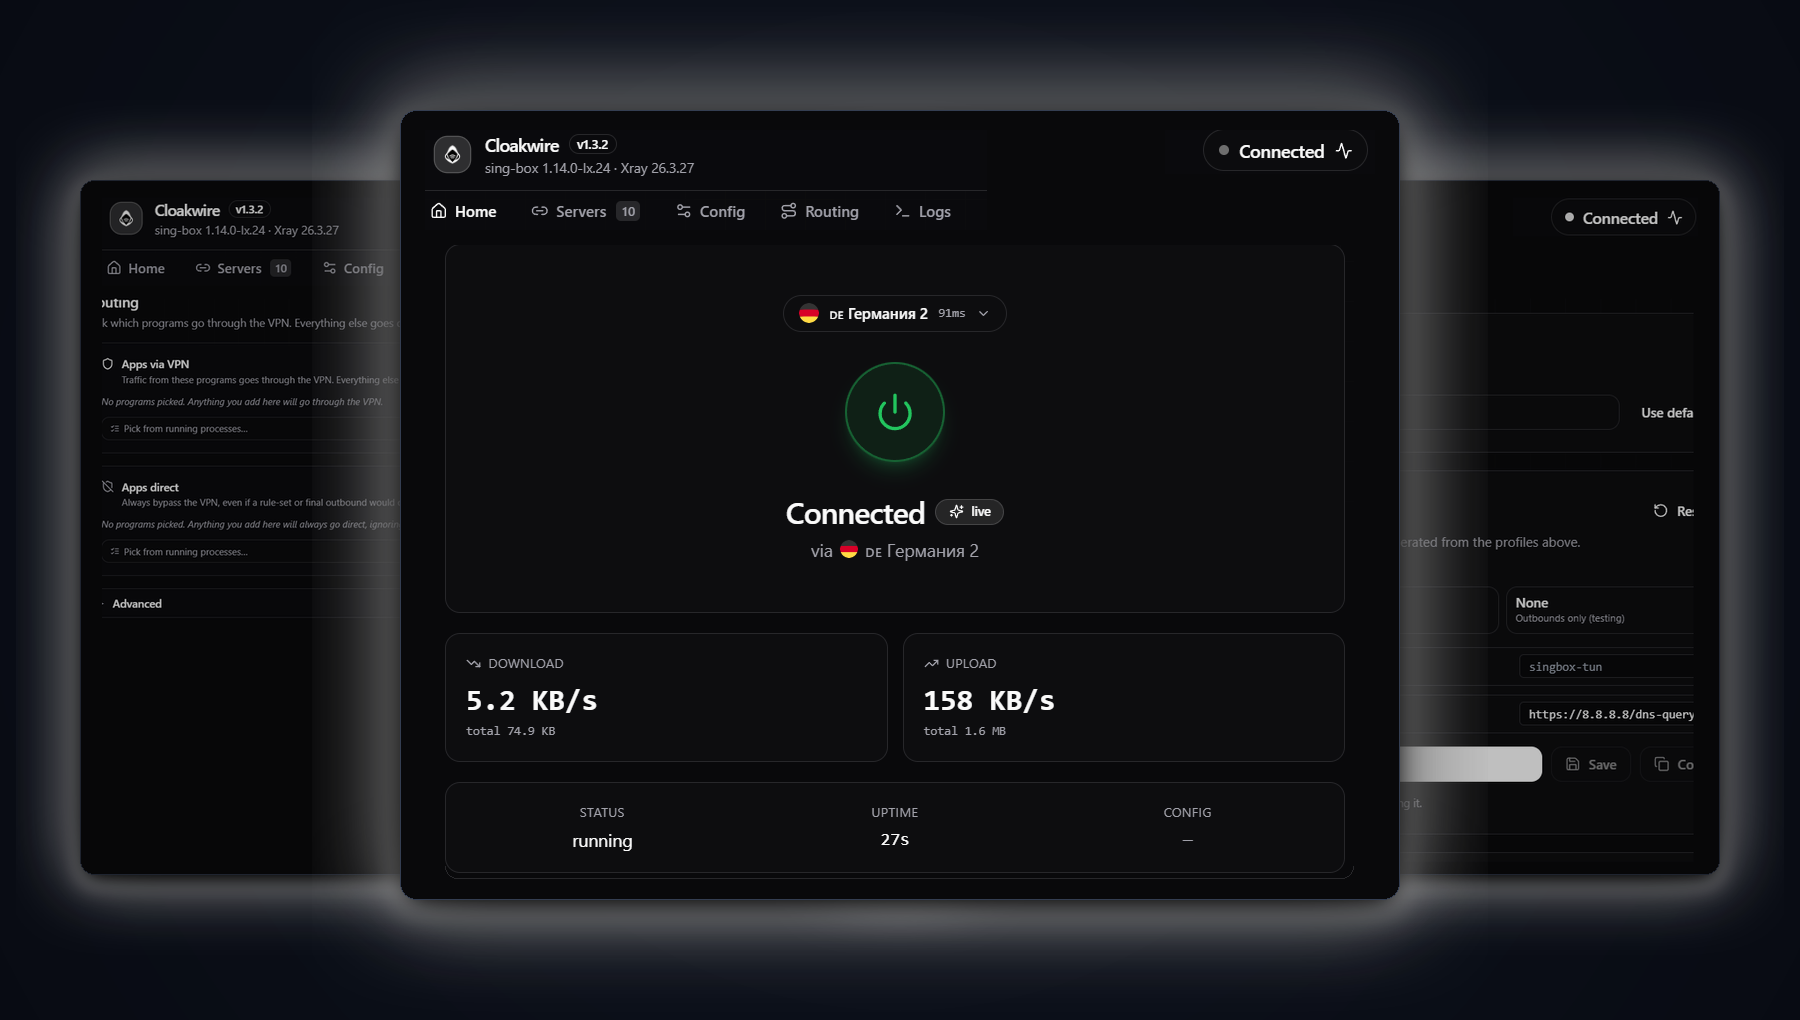
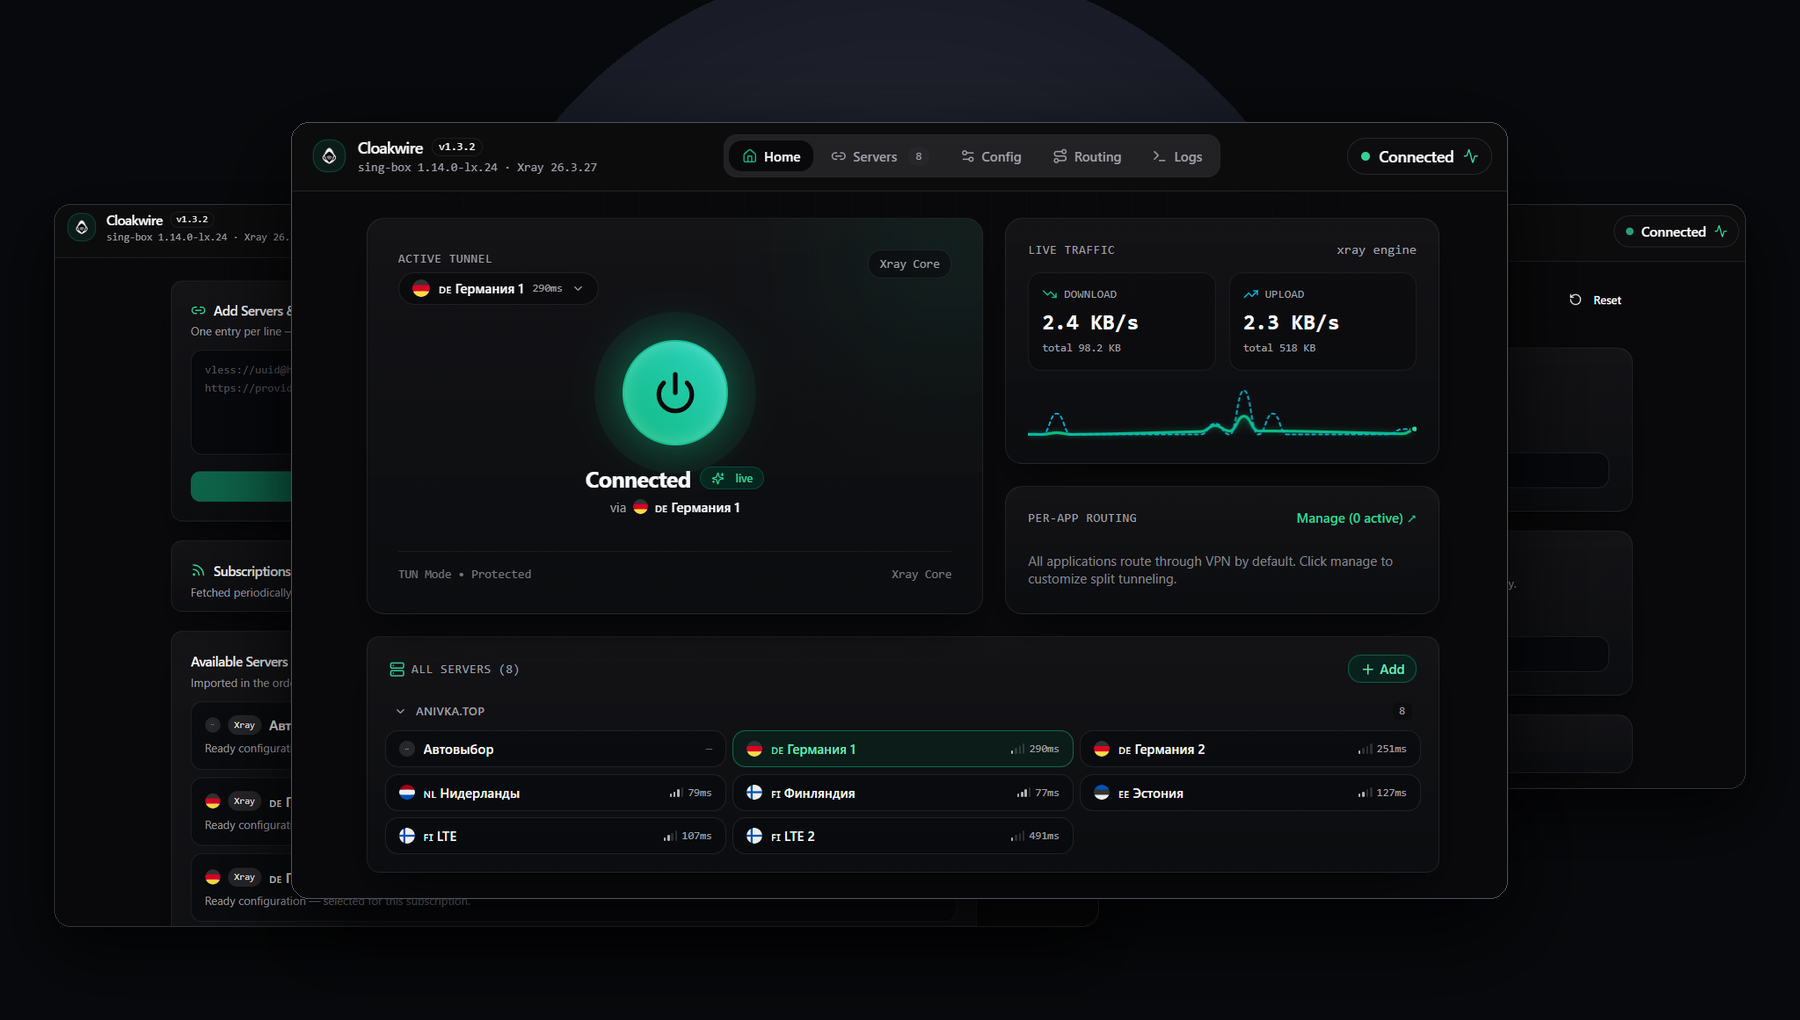
docs: update showcase hero image and section screenshots with Linear Bento redesign

diff --git a/scripts/make-hero-showcase.py b/scripts/make-hero-showcase.py
@@ -1,0 +1,129 @@
+import math
+from pathlib import Path
+from PIL import Image, ImageDraw, ImageFilter, ImageFont, ImageOps
+
+REPO_ROOT = Path(r"C:\Users\Public\cwdev\cloakwire-release-v132")
+SCREENS_DIR = Path(r"C:\Users\Алексей\Desktop\screens")
+OUT_DIR = REPO_ROOT / "dist-release" / "screenshots"
+OUT_DIR.mkdir(parents=True, exist_ok=True)
+
+def add_rounded_corners_and_border(img, radius=20, border_width=1, border_color=(60, 60, 68, 255)):
+    # Add alpha mask for rounded corners
+    w, h = img.size
+    mask = Image.new("L", (w, h), 0)
+    draw = ImageDraw.Draw(mask)
+    draw.rounded_rectangle([(0, 0), (w, h)], radius=radius, fill=255)
+    
+    rounded = Image.new("RGBA", (w, h), (0, 0, 0, 0))
+    rounded.paste(img, (0, 0), mask=mask)
+    
+    # Draw border
+    border_img = Image.new("RGBA", (w, h), (0, 0, 0, 0))
+    bdraw = ImageDraw.Draw(border_img)
+    bdraw.rounded_rectangle([(0, 0), (w-1, h-1)], radius=radius, outline=border_color, width=border_width)
+    
+    return Image.alpha_composite(rounded, border_img)
+
+def create_drop_shadow(img, offset=(0, 20), blur_radius=30, shadow_color=(0, 0, 0, 180)):
+    w, h = img.size
+    pad = blur_radius * 2 + max(abs(offset[0]), abs(offset[1])) + 20
+    
+    shadow_canvas = Image.new("RGBA", (w + pad * 2, h + pad * 2), (0, 0, 0, 0))
+    
+    # Create solid mask from image alpha
+    alpha = img.split()[-1]
+    shadow_mask = Image.new("L", img.size, 0)
+    shadow_mask.paste(alpha, (0, 0))
+    
+    # Tint shadow
+    solid_shadow = Image.new("RGBA", img.size, shadow_color)
+    
+    # Place on padded canvas
+    sx = pad + offset[0]
+    sy = pad + offset[1]
+    shadow_canvas.paste(solid_shadow, (sx, sy), mask=shadow_mask)
+    
+    # Blur
+    shadow_blurred = shadow_canvas.filter(ImageFilter.GaussianBlur(blur_radius))
+    
+    # Paste actual image over blurred shadow
+    shadow_blurred.paste(img, (pad, pad), mask=img)
+    
+    return shadow_blurred, pad
+
+def make_hero_stacked(home_p, servers_p, routing_p, config_p, out_p):
+    W, H = 1800, 1020
+    # Background: modern dark mesh / subtle gradient
+    bg = Image.new("RGB", (W, H), (8, 9, 12))
+    draw = ImageDraw.Draw(bg)
+    
+    # Subtle radial glow in the center top
+    for r in range(450, 0, -10):
+        alpha = int(18 * (1 - r / 450))
+        glow_color = (25 + alpha, 28 + alpha, 38 + alpha)
+        draw.ellipse([(W//2 - r, H//2 - r - 100), (W//2 + r, H//2 + r - 100)], fill=glow_color)
+    
+    bg = bg.convert("RGBA")
+    
+    # Load images
+    im_home = Image.open(home_p).convert("RGBA")
+    im_servers = Image.open(servers_p).convert("RGBA")
+    im_routing = Image.open(routing_p).convert("RGBA")
+    
+    # Prepare Left (Servers) window - scaled and dimmed slightly
+    s_scale = 0.76
+    im_s_scaled = im_servers.resize((int(im_servers.width * s_scale), int(im_servers.height * s_scale)), Image.Resampling.LANCZOS)
+    im_s_prep = add_rounded_corners_and_border(im_s_scaled, radius=16, border_color=(45, 45, 52, 255))
+    im_s_shadow, pad_s = create_drop_shadow(im_s_prep, offset=(0, 24), blur_radius=32, shadow_color=(0, 0, 0, 190))
+    
+    # Prepare Right (Routing) window
+    r_scale = 0.76
+    im_r_scaled = im_routing.resize((int(im_routing.width * r_scale), int(im_routing.height * r_scale)), Image.Resampling.LANCZOS)
+    im_r_prep = add_rounded_corners_and_border(im_r_scaled, radius=16, border_color=(45, 45, 52, 255))
+    im_r_shadow, pad_r = create_drop_shadow(im_r_prep, offset=(0, 24), blur_radius=32, shadow_color=(0, 0, 0, 190))
+    
+    # Prepare Center (Home) window - primary focal point
+    h_scale = 0.88
+    im_h_scaled = im_home.resize((int(im_home.width * h_scale), int(im_home.height * h_scale)), Image.Resampling.LANCZOS)
+    im_h_prep = add_rounded_corners_and_border(im_h_scaled, radius=18, border_color=(75, 75, 88, 255))
+    im_h_shadow, pad_h = create_drop_shadow(im_h_prep, offset=(0, 32), blur_radius=44, shadow_color=(0, 0, 0, 220))
+    
+    # Composite Left
+    left_x = int(W * 0.03) - pad_s
+    left_y = int(H * 0.20) - pad_s
+    bg.paste(im_s_shadow, (left_x, left_y), mask=im_s_shadow)
+    
+    # Composite Right
+    right_x = int(W * 0.97 - im_r_prep.width) - pad_r
+    right_y = int(H * 0.20) - pad_r
+    bg.paste(im_r_shadow, (right_x, right_y), mask=im_r_shadow)
+    
+    # Composite Center (Home) on top
+    center_x = (W - im_h_prep.width) // 2 - pad_h
+    center_y = int(H * 0.12) - pad_h
+    bg.paste(im_h_shadow, (center_x, center_y), mask=im_h_shadow)
+    
+    # Convert and save
+    final_img = bg.convert("RGB")
+    final_img.save(out_p, "PNG", optimize=True)
+    print(f"Saved hero showcase to {out_p}")
+
+def main():
+    home_p = SCREENS_DIR / "Home.png"
+    servers_p = SCREENS_DIR / "Servers.png"
+    routing_p = SCREENS_DIR / "Routing.png"
+    config_p = SCREENS_DIR / "Config.png"
+    
+    # 1. Update individual section screenshots
+    Image.open(home_p).save(OUT_DIR / "01-home.png", "PNG", optimize=True)
+    Image.open(servers_p).save(OUT_DIR / "02-servers.png", "PNG", optimize=True)
+    Image.open(config_p).save(OUT_DIR / "03-config.png", "PNG", optimize=True)
+    Image.open(routing_p).save(OUT_DIR / "04-routing.png", "PNG", optimize=True)
+    print("Updated 01-home.png, 02-servers.png, 03-config.png, 04-routing.png")
+    
+    # 2. Generate hero showcase
+    hero_out = OUT_DIR / "hero-showcase.png"
+    make_hero_stacked(home_p, servers_p, routing_p, config_p, hero_out)
+
+if __name__ == "__main__":
+    main()

diff --git a/README.md b/README.md
@@ -183,9 +183,8 @@ Cloakwire спроектирован с упором на современный
 ### Config — режим работы и DNS
 ![Config tab](dist-release/screenshots/03-config.png)
 
-### Routing — простой и продвинутый
-![Routing tab — simple UX](dist-release/screenshots/04-routing.png)
-![Routing tab — Advanced](dist-release/screenshots/05-routing-advanced.png)
+### Routing — маршрутизация и правила
+![Routing tab](dist-release/screenshots/04-routing.png)
 
 ---
 

diff --git a/README.en.md b/README.en.md
@@ -183,9 +183,8 @@ Cloakwire focuses on clean usability and performance:
 ### Config — mode and DNS
 ![Config tab](dist-release/screenshots/03-config.png)
 
-### Routing — simple and advanced
-![Routing tab — simple UX](dist-release/screenshots/04-routing.png)
-![Routing tab — Advanced](dist-release/screenshots/05-routing-advanced.png)
+### Routing — routing and rules
+![Routing tab](dist-release/screenshots/04-routing.png)
 
 ---
 
